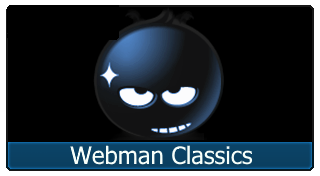
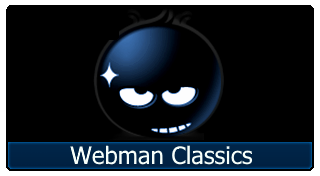
Refreshed the PIC0 and PIC1 for the default GUI, fixed an issue with ICON0 not showing properly

Changed region(s): [[0.0, 0.2841, 1.0, 0.9659], [0.2812, 0.1136, 0.5938, 0.625]]

diff --git a/webman_classics_maker.py b/webman_classics_maker.py
@@ -286,13 +286,13 @@ class Main:
         pic0_filename = 'PIC0.PNG'
         pic1_filename = 'PIC1.PNG'
 
-        self.image_icon0 = self.load_pkg_images(icon0_filename)
+        self.image_icon0 = self.load_default_pkg_images(icon0_filename)
         self.image_icon0_ref = copy.copy(self.image_icon0)
 
-        self.image_pic0 = self.load_pkg_images(pic0_filename)
+        self.image_pic0 = self.load_default_pkg_images(pic0_filename)
         self.image_pic0_ref = copy.copy(self.image_pic0)
 
-        self.image_pic1 = self.load_pkg_images(pic1_filename)
+        self.image_pic1 = self.load_default_pkg_images(pic1_filename)
         self.image_pic1_ref = copy.copy(self.image_pic1)
         # self.photo_image_pic1_xmb = copy.copy(self.image_pic1)
         self.image_pic1_w_title = copy.copy(self.image_pic1)
@@ -304,15 +304,9 @@ class Main:
         self.image_xmb_icons = Image.open(os.path.join(ImagePaths.xmb, 'XMB_icons.png'))
         self.ps3_system_logo = Image.open(os.path.join(ImagePaths.xmb, 'ps3_type_logo.png'))
 
-    def load_pkg_images(self, filename):
+    def load_default_pkg_images(self, filename):
         default_pkg_img_dir = os.path.join(ImagePaths.pkg, 'default')
-        png_path = os.path.join(self.wcm_pkg_dir, filename)
-
-        if '.png' in png_path.lower() and os.path.isfile(png_path):
-            return Image.open(png_path).convert("RGBA")
-        else:
-            shutil.copyfile(os.path.join(default_pkg_img_dir, filename), png_path)
-            return Image.open(png_path).convert("RGBA")
+        return Image.open(os.path.join(default_pkg_img_dir, filename)).convert("RGBA")
 
     def draw_background_on_canvas(self):
         self.current_img = self.background_images[self.canvas_image_number]
@@ -646,6 +640,7 @@ class Main:
     def init_draw_images_on_canvas(self, main, *args, **kwargs):
         img_to_be_changed = kwargs.get('img_to_be_changed', None)
         pkg_build_path = kwargs.get('pkg_build_path', None)
+        default_img_path = os.path.join(AppPaths.resources, 'images', 'pkg', 'default')
 
         pic1_changed = False
         pic0_changed = False
@@ -666,34 +661,37 @@ class Main:
 
 
         # check if xmb_icons needs to be re-drawn
-        elif pkg_build_path is not None:
+        elif pkg_build_path is not None and pkg_build_path is not '':
             if os.path.exists(pkg_build_path):
                 # draw PIC1 from pkg_dir and then xmb icons and system logo onto the pkg  background
                 if os.path.isfile(os.path.join(pkg_build_path, 'ICON0.PNG')):
                     icon0_changed = True
                     self.image_icon0 = Image.open(os.path.join(pkg_build_path, 'ICON0.PNG')).convert("RGBA")
-                else:
-                    icon0_changed = True
-                    self.image_icon0 = Image.open(os.path.join(self.wcm_pkg_dir, 'ICON0.PNG')).convert("RGBA")
 
                 if os.path.isfile(os.path.join(pkg_build_path, 'PIC0.PNG')):
                     pic0_changed = True
                     self.image_pic0 = Image.open(os.path.join(pkg_build_path, 'PIC0.PNG')).convert("RGBA")
-                elif os.path.isfile(os.path.join(self.wcm_pkg_dir, 'PIC0.PNG')):
-                    pic0_changed = True
-                    self.image_pic0 = Image.open(os.path.join(self.wcm_pkg_dir, 'PIC0.PNG')).convert("RGBA")
 
                 if os.path.isfile(os.path.join(pkg_build_path, 'PIC1.PNG')):
                     self.image_pic1 = Image.open(os.path.join(pkg_build_path, 'PIC1.PNG')).convert("RGBA")
                     self.image_pic1_ref = Image.open(os.path.join(pkg_build_path, 'PIC1.PNG')).convert("RGBA")
                     pic1_changed = True
-                elif os.path.isfile(os.path.join(self.wcm_pkg_dir, 'PIC1.PNG')):
-                    self.image_pic1 = Image.open(os.path.join(self.wcm_pkg_dir, 'PIC1.PNG')).convert("RGBA")
-                    self.image_pic1_ref = Image.open(os.path.join(self.wcm_pkg_dir, 'PIC1.PNG')).convert("RGBA")
-                    pic1_changed = True
-        elif os.path.isfile(os.path.join(self.wcm_pkg_dir, 'PIC1.PNG')):
-            self.image_pic1 = Image.open(os.path.join(self.wcm_pkg_dir, 'PIC1.PNG')).convert("RGBA")
-            self.image_pic1_ref = Image.open(os.path.join(self.wcm_pkg_dir, 'PIC1.PNG')).convert("RGBA")
+
+        else:
+            platform = ''
+            file_path = str(self.entry_field_iso_path.get())
+            if file_path != '':
+                iso_str_index = file_path.index('ISO/', 0, len(file_path))
+                platform = file_path[iso_str_index-3: iso_str_index].lower()
+
+            self.image_icon0 = Image.open(os.path.join(default_img_path, platform.upper(), 'ICON0.PNG')).convert("RGBA")
+            self.image_icon0_ref = Image.open(os.path.join(default_img_path, 'ICON0.PNG')).convert("RGBA")
+
+            self.image_pic0 = Image.open(os.path.join(default_img_path, 'PIC0.PNG')).convert("RGBA")
+            self.image_pic0_ref = Image.open(os.path.join(default_img_path, 'PIC0.PNG')).convert("RGBA")
+
+            self.image_pic1 = Image.open(os.path.join(default_img_path, 'PIC1.PNG')).convert("RGBA")
+            self.image_pic1_ref = Image.open(os.path.join(default_img_path, 'PIC1.PNG')).convert("RGBA")
             pic1_changed = True
 
 
@@ -710,24 +708,23 @@ class Main:
             tmp_image_icon0 = tmp_icon0_bg.crop((self.icon0_x_pos, self.icon0_y_pos,
                                                  self.icon0_x_pos + self.image_icon0.width,
                                                  self.icon0_y_pos + self.image_icon0.height))
+        # A PIC0 must be used for the GUI
+        if os.path.isfile(os.path.join(AppPaths.game_work_dir, 'pkg', 'PIC0.PNG')):
+            tmp_pic0_bg = copy.copy(self.image_pic1)
+        # else use background w/ title
+        else:
+            tmp_pic0_bg = copy.copy(self.image_pic1_w_title)
+            # draw date and time beside ICON0
+            self.draw_text_on_image_w_shadow(self.image_pic1, "11/11/2006 00:00", 760, 522, 20, 1, 'white', 'black')
 
-        if pic1_changed or pic0_changed:
-            # TODO: here's a problem with PIC1 and no PIC0
-            # crop and blend PIC0 to the background
-            if os.path.isfile(os.path.join(AppPaths.game_work_dir, 'pkg', 'PIC0.PNG')):
-                tmp_pic0_bg = copy.copy(self.image_pic1)
-            # else use backgrounf w/ title
-            else:
-                tmp_pic0_bg = copy.copy(self.image_pic1_w_title)
-            # Image.paste(im1, (left, top, right, bottom), im1)
-            tmp_pic0_bg.paste(self.image_pic0, (self.pic0_x_pos, self.pic0_y_pos), self.image_pic0)
-            # Image.crop((left, top, right, bottom))
-            tmp_image_pic0 = tmp_pic0_bg.crop((self.pic0_x_pos, self.pic0_y_pos,
+        # Image.paste(im1, (left, top, right, bottom), im1)
+        tmp_pic0_bg.paste(self.image_pic0, (self.pic0_x_pos, self.pic0_y_pos), self.image_pic0)
+        # Image.crop((left, top, right, bottom))
+        tmp_image_pic0 = tmp_pic0_bg.crop((self.pic0_x_pos, self.pic0_y_pos,
                                                self.pic0_x_pos + self.image_pic0.width,
                                                self.pic0_y_pos + self.image_pic0.height))
 
-        # draw launch-date and clock beside ICON0
-        self.draw_text_on_image_w_shadow(self.image_pic1, "11/11/2006 00:00", 760, 522, 20, 1, 'white', 'black')
+
 
         # resize: ->853, ->480
         self.photoimage_pic1 = PhotoImage(
@@ -897,13 +894,14 @@ class Main:
             self.drive_system_array[1] = system_choice
 
     # Dynamic update of the pkg path for showing fetched images
-    def dynamic_game_build_path(self):
-        if str(self.entry_field_iso_path.get()) != '' and str(self.entry_field_title_id.get()) != '':
+    def update_game_build_path(self):
+        # ask gamelist to return selected path
+        build_dir_pkg_path = None
+        selected_path = self.gamelist.get_selected_build_dir_path()
+        if selected_path is not '':
             AppPaths.game_work_dir = os.path.join(self.gamelist.get_selected_build_dir_path(), 'work_dir')
             build_dir_pkg_path = os.path.join(AppPaths.game_work_dir, 'pkg')
-            if os.path.exists(build_dir_pkg_path):
-                # update images
-                self.init_draw_images_on_canvas(self.main, pkg_build_path=build_dir_pkg_path)
+        self.init_draw_images_on_canvas(self.main, pkg_build_path=build_dir_pkg_path)
 
     # Dynamic update of the 'entry_field_filename' into the 'entry_field_iso_path'
     def dynamic_filename_to_path(self, event):
@@ -942,7 +940,7 @@ class Main:
 
         self.init_draw_images_on_canvas(self.main)
         #TODO: this might be more optimized somewhere else
-        self.dynamic_game_build_path()
+        self.update_game_build_path()
 
     def image_replace_browser(self, main):
         image = askopenfile(mode='rb', title='Browse an image', filetypes=[('PNG image', '.PNG')])
@@ -1044,7 +1042,7 @@ class Main:
             self.entry_field_filename.icursor(0)
             return False
 
-        elif str(tmp_name).endswith(file_extensions):
+        elif str(tmp_name).endswith(AppPaths.file_extensions):
             self.filename_error_msg = 'DEBUG The image file must have a name'
             print(self.filename_error_msg)
             self.entry_field_filename.focus_set()
@@ -1087,7 +1085,7 @@ class Main:
                 iso_str_index = file_path.index('ISO/', 0, len(file_path))
                 platform = file_path[iso_str_index-3: iso_str_index].lower()
 
-                icon0 = Image.open(os.path.join(AppPaths.application_path, 'resources', 'images', 'pkg', 'default', platform.upper(), 'ICON0.PNG')).convert("RGBA")
+                icon0 = Image.open(os.path.join(AppPaths.resources, 'images', 'pkg', 'default', platform.upper(), 'ICON0.PNG')).convert("RGBA")
                 icon0.save(os.path.join(AppPaths.game_work_dir, 'pkg', 'ICON0.PNG'))
 
             self.save_preview_image()

diff --git a/resources/tools/util_scripts/wcm_gui/game_listbox.py b/resources/tools/util_scripts/wcm_gui/game_listbox.py
@@ -177,17 +177,19 @@ class Gamelist():
 
     def get_selected_build_dir_path(self):
         pkg_project_name = ''
-        filename = self.selected_filename
-        title_id = self.selected_title_id.replace('-', '')
-        build_base_path = AppPaths.builds
+        build_dir_path = ''
+        if self.selected_filename is not '':
+            filename = self.selected_filename
+            title_id = self.selected_title_id.replace('-', '')
+            build_base_path = AppPaths.builds
 
-        # removes the file extension
-        for file_ext in GlobalVar.file_extensions:
-            if filename.upper().endswith(file_ext):
-                pkg_project_name = filename[0:len(filename)-len(file_ext)]
-                pkg_project_name = pkg_project_name.replace(' ', '_') + '_(' + title_id.replace('-', '') + ')'
-                break
+            # removes the file extension
+            for file_ext in GlobalVar.file_extensions:
+                if filename.upper().endswith(file_ext):
+                    pkg_project_name = filename[0:len(filename)-len(file_ext)]
+                    pkg_project_name = pkg_project_name.replace(' ', '_') + '_(' + title_id.replace('-', '') + ')'
+                    break
 
-        build_dir_path = os.path.join(build_base_path, pkg_project_name)
+            build_dir_path = os.path.join(build_base_path, pkg_project_name)
         return build_dir_path
 
